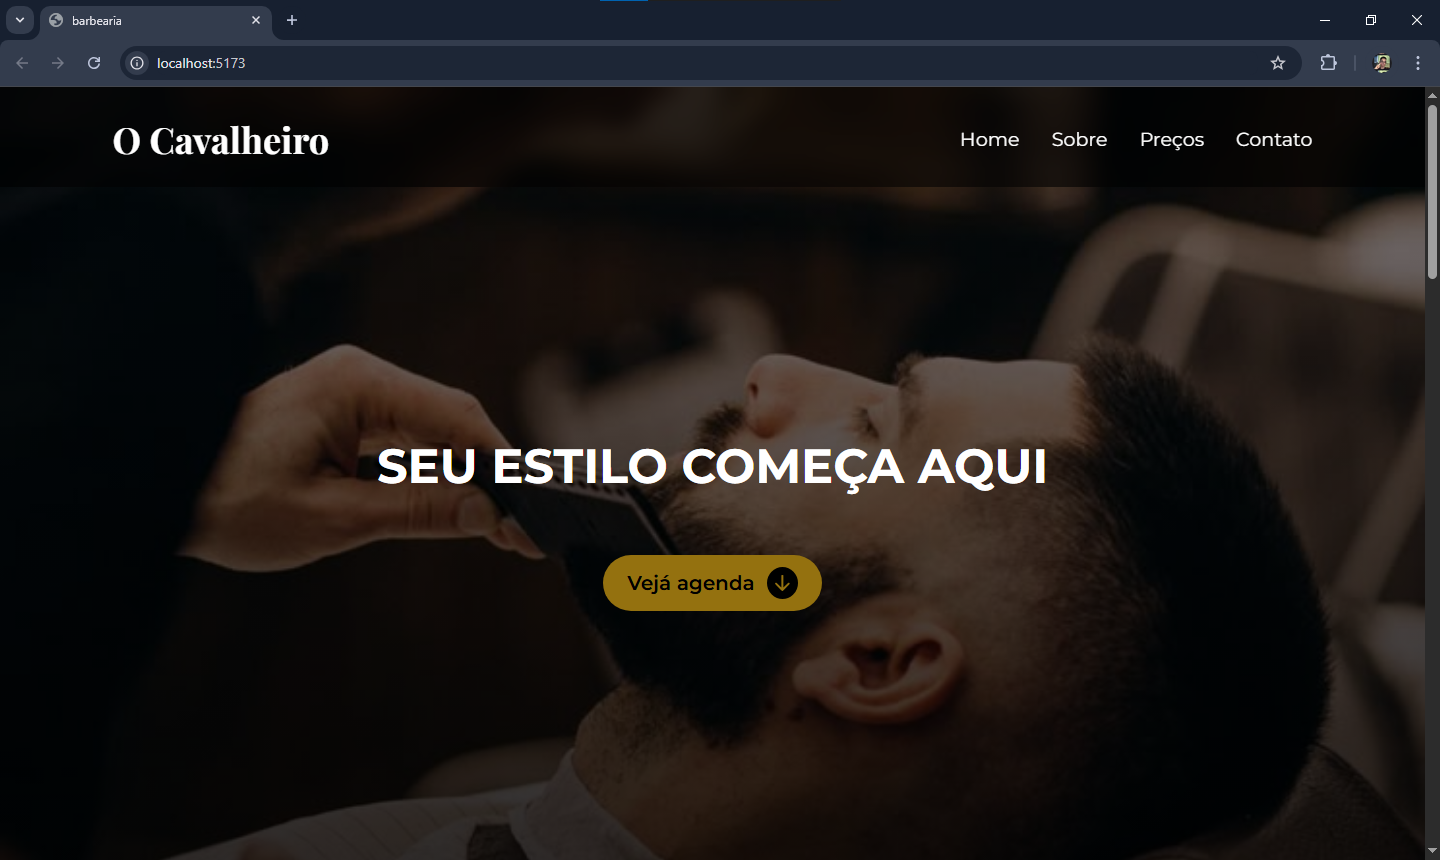
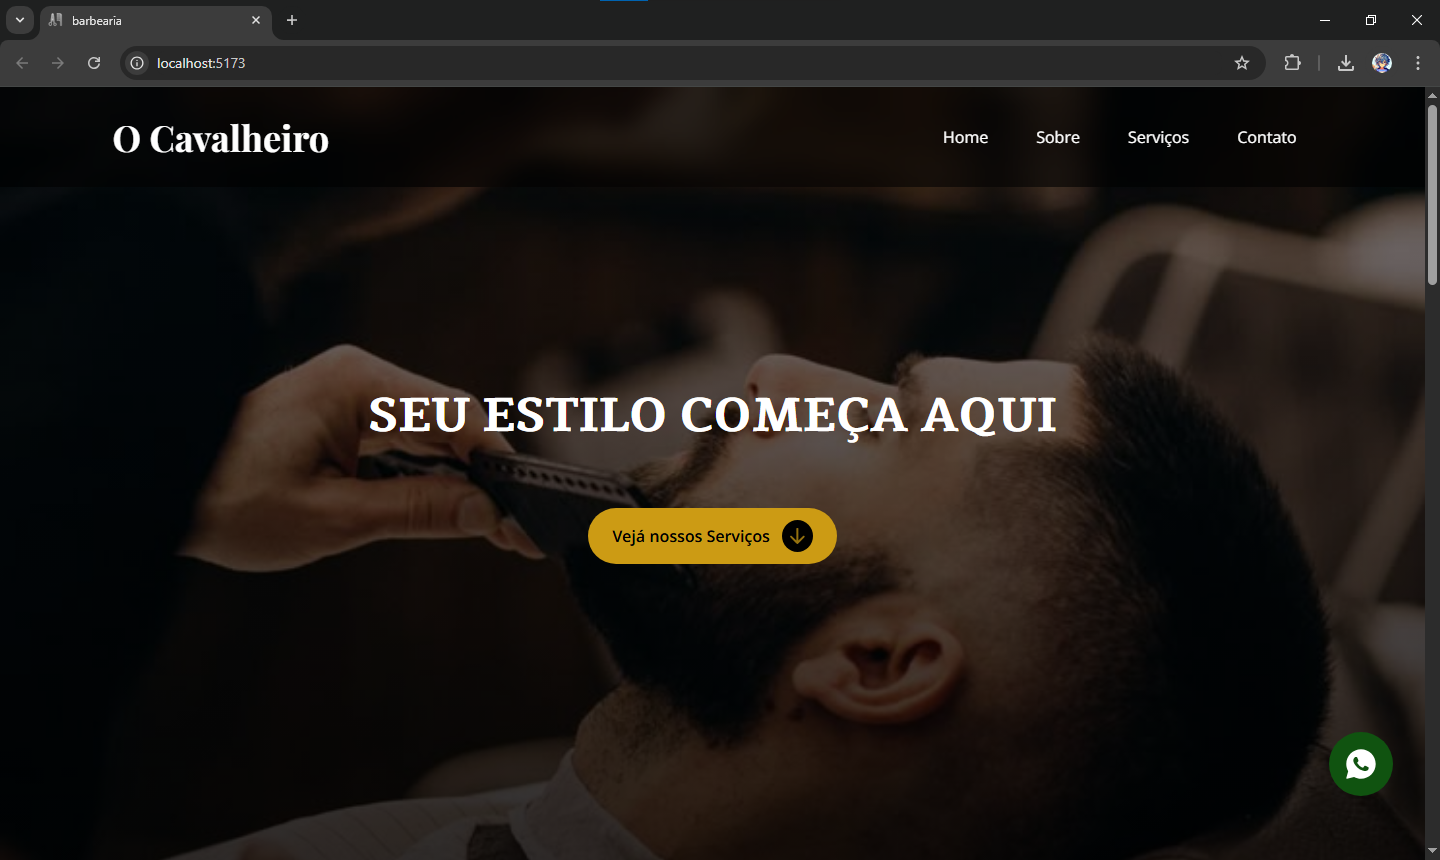
readme

diff --git a/index.html b/index.html
@@ -2,7 +2,7 @@
 <html lang="pt-br">
   <head>
     <meta charset="UTF-8" />
-    <link rel="icon" type="image/svg+xml" href="/favicon.svg" />
+    <link rel="icon" type="image/svg+xml" href="/src/assets/icons8-barbershop-96.png" />
     <meta name="viewport" content="width=device-width, initial-scale=1.0" />
     <title>barbearia</title>
   </head>

diff --git a/README.md b/README.md
@@ -1,6 +1,10 @@
-# Barbearia - Projeto React v1
+# Barbearia - Projeto React v2
 
+### V1
 Projeto front-end desenvolvido com React de um site de barbearia, o objetivo foi criar um site no qual os clientes podem ver os serviços e entrar em contato por qualqueer meio de contato.
+
+### V2
+Ná verção 2 foram adicionados varios ajustes para melhor imerção no site como: menu mobile, hovers, botão fixo do whatsApp, animações, ajustes de tamanhos, melhoria na responsividade e fontes mais tematicas.
 
 ![site barbearia](./src/assets/img_barbearia.png)
 
@@ -30,6 +34,7 @@ Desenvolver um site para ver serviços e entrar em contato, foco em UX (Experien
     * About
     * Services
     * Contact
+    * Footer
 
 ---
 
